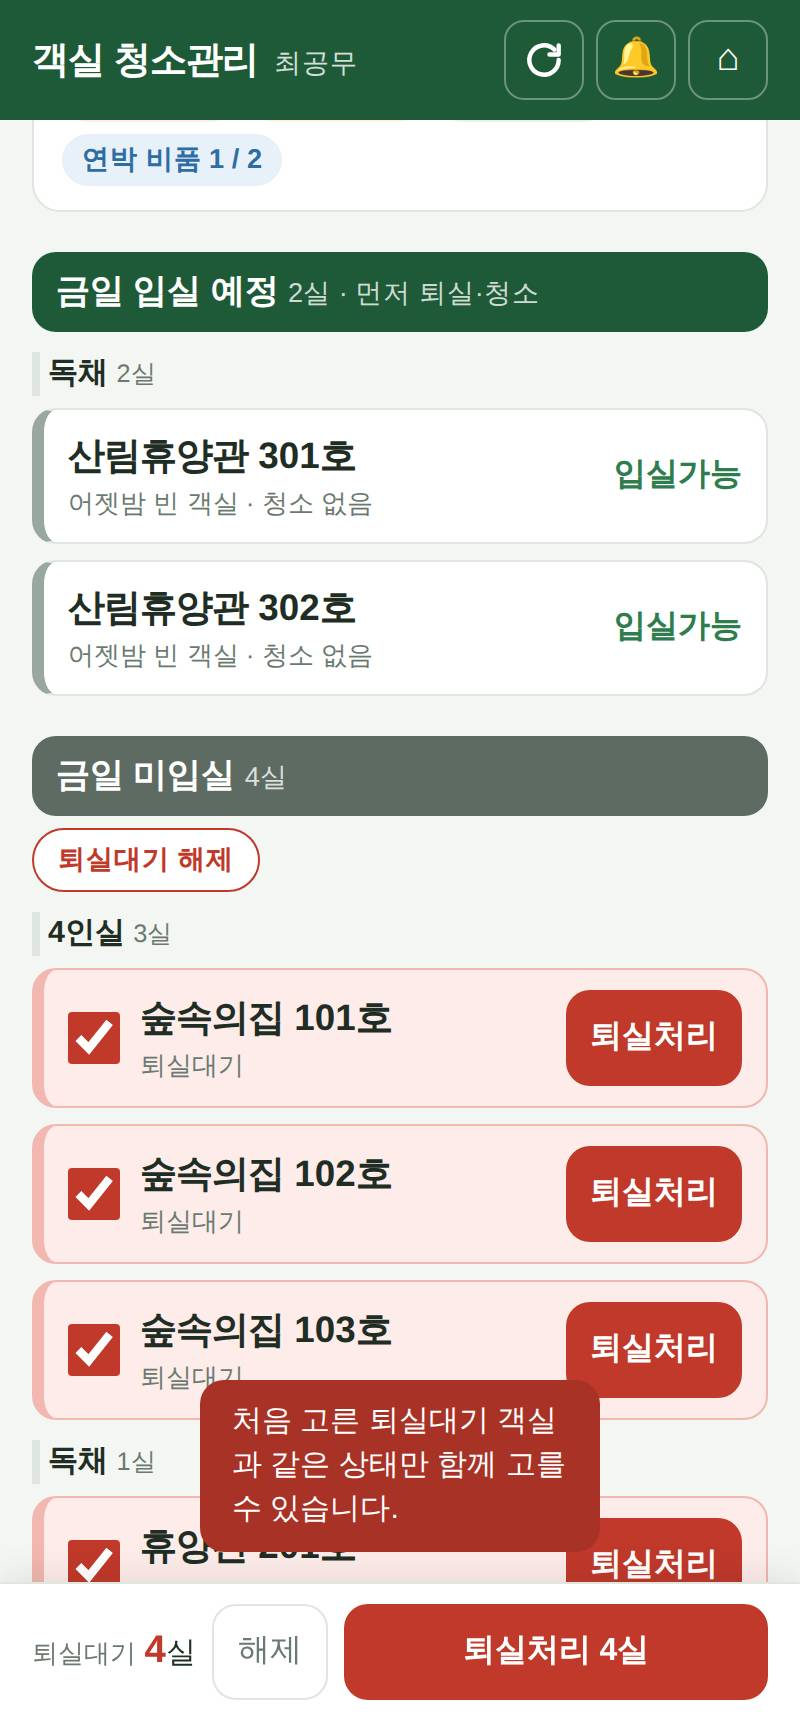
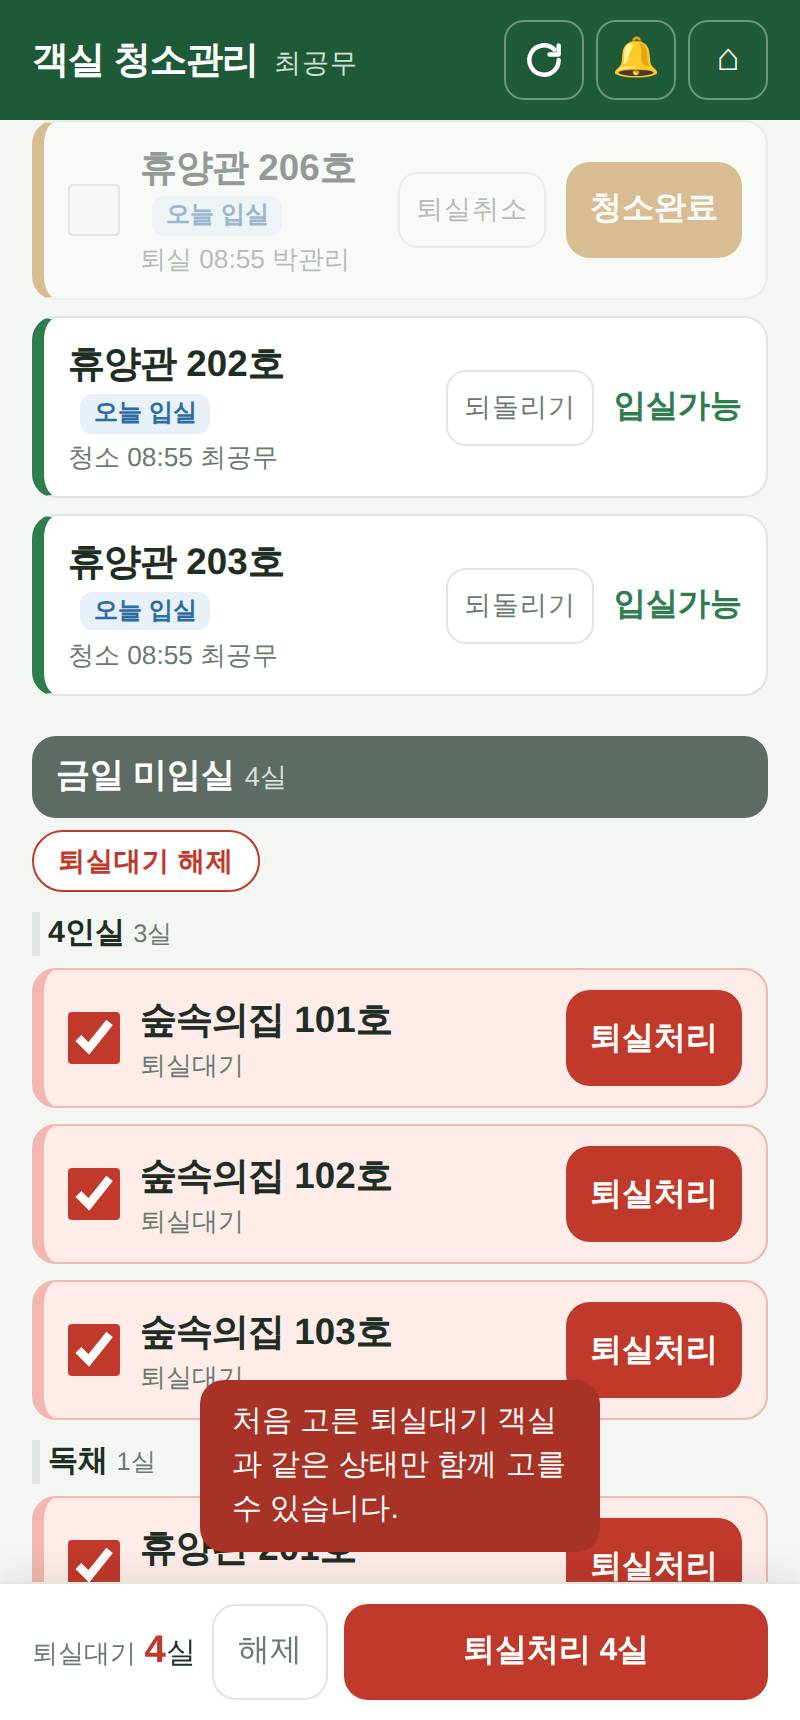
청소관리: 퇴실완료를 금일 미입실 위로
Claude-Session: https://claude.ai/code/session_01Lr6yxKyasrSL9QLfMX5TX8

diff --git a/assets/clean.js b/assets/clean.js
@@ -90,8 +90,8 @@
       r.supply_at ? undo(r.id, 'undo_supply', '취소') + '<span class="cl-done stay">지급완료</span>' : btn(r.id, 'supply', '비품지급', 'stay'),
       r.supply_at ? '비품 ' + esc(r.supply_at) + ' ' + esc(r.supply_by) : '청소 없음 · 비품만 지급', r.nights + '박'));
     $('[data-list]').innerHTML = category('in', '금일 입실 예정', '먼저 퇴실·청소', arriving, '퇴실을 기다리는 오늘 입실 객실이 없습니다.')
-      + category('none', '금일 미입실', '', notArriving, '퇴실을 기다리는 객실이 없습니다.')
       + category('done', '퇴실완료', '청소가능 ' + nDirty + ' · 입실가능 ' + (outDone.length - nDirty), outDone, '아직 퇴실처리한 객실이 없습니다.')
+      + category('none', '금일 미입실', '', notArriving, '퇴실을 기다리는 객실이 없습니다.')
       + section('연박 (비품지급)', 'var(--stay)', stays, '연박 객실이 없습니다.');
     bulkBar();
     board();

diff --git a/app/help.php b/app/help.php
@@ -214,7 +214,7 @@ HTML],
     <b>퇴실대기</b>(빨강) → <b>퇴실처리</b>를 누르면 <b>청소가능</b>(주황) → <b>청소완료</b>를 누르면 <b>입실가능</b>(초록).
     퇴실처리·청소완료 때마다 다른 사용자 모두에게 알림이 가고, 퇴실 객실이 모두 청소완료되면 <b>'전객실 입실준비완료'</b> 알림이 갑니다.</li>
   <li><b>화면 구성</b>: 퇴실대기 객실은 <b>금일 입실 예정</b>(오늘 새 손님이 들어오는 객실 — 먼저 퇴실·청소, 어젯밤 빈 객실도 여기에 '입실가능'으로)과 <b>금일 미입실</b>(오늘 입실 없음)로 나누고,
-    <b>퇴실처리한 객실</b>(청소가능·입실가능)은 <b>퇴실완료</b>로 모읍니다 (오늘 입실 객실은 '오늘 입실' 표시, 청소가능이 위). 각 묶음 안은 <b>2인실·4인실·독채</b>(설정의 객실 분류 순서)별이고, 칸 색(빨강·주황·초록)으로 상태를 구분합니다. 연박 객실은 맨 아래 따로.</li>
+    <b>퇴실처리한 객실</b>(청소가능·입실가능)은 <b>퇴실완료</b>로 모읍니다 (순서: 금일 입실 예정 → 퇴실완료 → 금일 미입실 → 연박, 오늘 입실 객실은 '오늘 입실' 표시, 청소가능이 위). 각 묶음 안은 <b>2인실·4인실·독채</b>(설정의 객실 분류 순서)별이고, 칸 색(빨강·주황·초록)으로 상태를 구분합니다. 연박 객실은 맨 아래 따로.</li>
   <li><b>여러 객실 한 번에 처리</b>: 객실의 체크박스(또는 객실 칸)를 눌러 고릅니다. <b>처음 고른 객실과 같은 상태(퇴실대기 또는 청소가능)만</b> 함께 고를 수 있고, 다른 상태 객실은 흐리게 바뀝니다.
     카테고리마다 <b>퇴실대기 전체</b>·<b>청소가능 전체</b> 버튼으로 한 번에 고르고, 아래 막대의 <b>퇴실처리 N실</b> 또는 <b>청소완료 N실</b>을 누릅니다 ('해제'로 선택을 비우면 다른 상태를 고를 수 있음).
     누르면 고른 객실이 한꺼번에 청소가능(또는 입실가능)이 되고, 알림은 '퇴실 3실 · 101호, 102호…'처럼 <b>한 번</b>만 갑니다.</li>

diff --git a/app/changelog.php b/app/changelog.php
@@ -7,6 +7,9 @@ defined('APP_ROOT') || exit;
  *   ['date' => 'YYYY-MM-DD', 'title' => '한 줄 요약', 'items' => ['자세한 내용', ...], 'menu' => '관련 메뉴(선택)']
  */
 const CHANGELOG = [
+    ['date' => '2026-10-08', 'title' => "청소관리: '퇴실완료'를 '금일 미입실' 위로", 'menu' => '객실관리', 'items' => [
+        '청소관리 화면 순서를 금일 입실 예정 → 퇴실완료 → 금일 미입실 → 연박으로 바꿨습니다.',
+    ]],
     ['date' => '2026-10-08', 'title' => "청소관리: 퇴실처리한 객실은 '퇴실완료'로 모음", 'menu' => '객실관리', 'items' => [
         "퇴실처리를 누른 객실(청소가능·입실가능)은 금일 입실 예정·금일 미입실에서 빠져 '퇴실완료' 묶음으로 모입니다. 그 안에서도 2인실·4인실·독채별이고, 오늘 입실할 객실은 '오늘 입실'로 표시되며 청소가능이 위에 나옵니다.",
     ]],
